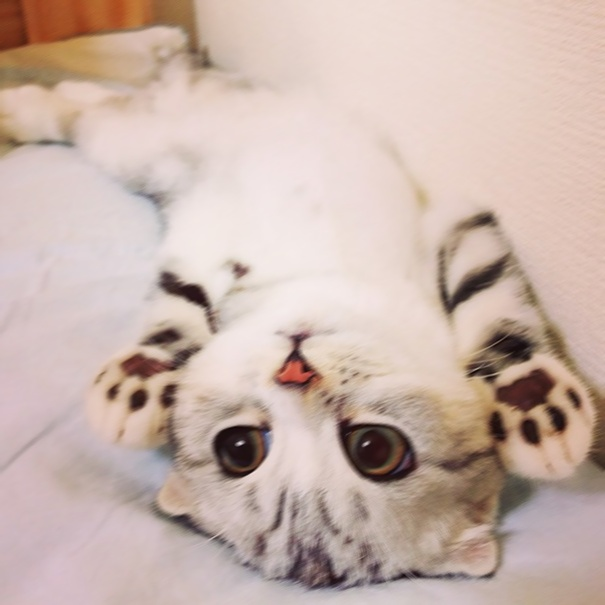
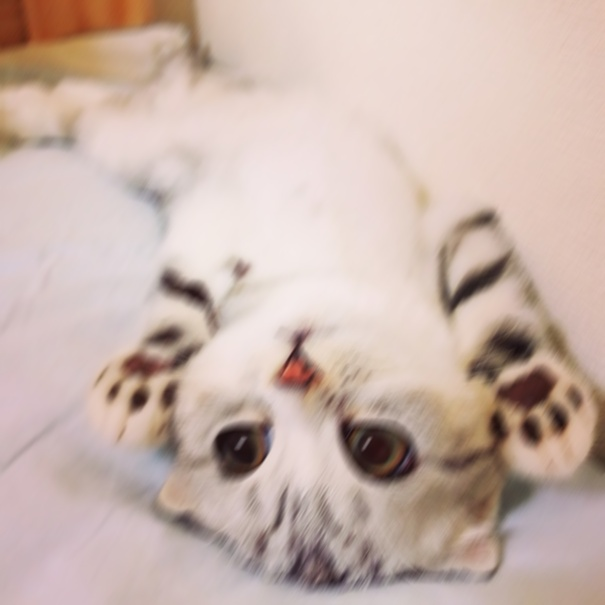
update

diff --git a/index.html b/index.html
@@ -119,7 +119,7 @@ A huge list of many types of data augmentations techniques used for deep learnin
     <li class="item_list">
         <button onclick="show('aug19')">Median Blur</button>
         <div id="aug19" style="display: none;">
-            Invert the input image by subtracting pixel values from 255.
+            Blur the input image using a median filter with a random aperture linear size.
             Source: <a target="_blank" href="https://albumentations.ai/docs/api_reference/augmentations/transforms/#albumentations.augmentations.transforms.MedianBlur">Albumentations</a><br>
             <figure>
                 <img src="images/kitty.jpg"> 
@@ -135,8 +135,8 @@ A huge list of many types of data augmentations techniques used for deep learnin
     <li class="item_list">
         <button onclick="show('aug20')">Motion Blur</button>
         <div id="aug20" style="display: none;">
-            Apply motion blur to the input image using a random-sized kernel.
-            Source: <a target="_blank" href="https://albumentations.ai/docs/api_reference/augmentations/transforms/#albumentations.augmentations.transforms.MotionBlur">Albumentations</a><br>
+            Blur images in a way that fakes camera or object movements.
+            Source: <a target="_blank" href="https://imgaug.readthedocs.io/en/latest/source/overview/blur.html#motionblur">Imgaug</a><br>
             <figure>
                 <img src="images/kitty.jpg"> 
                 <figcaption>Original</figcaption>
@@ -159,6 +159,38 @@ A huge list of many types of data augmentations techniques used for deep learnin
             </figure>
             <figure>
                 <img src="images/kitty_average_blur.jpg">
+                <figcaption>Augmentation</figcaption>
+            </figure>  
+        </div>
+    </li>
+    <!----------------------------------------------------------------------------------------------------------------->
+    <li class="item_list">
+        <button onclick="show('aug58')">Bilateral Blur</button>
+        <div id="aug58" style="display: none;">
+            Bilateral filters blur homogenous and textured areas, while trying to preserve edges.
+            Source: <a target="_blank" href="https://imgaug.readthedocs.io/en/latest/source/overview/blur.html#bilateralblur">Imgaug</a><br>
+            <figure>
+                <img src="images/kitty.jpg"> 
+                <figcaption>Original</figcaption>
+            </figure>
+            <figure>
+                <img src="images/kitty_bilateral_blur.jpg">
+                <figcaption>Augmentation</figcaption>
+            </figure>  
+        </div>
+    </li>
+    <!----------------------------------------------------------------------------------------------------------------->
+    <li class="item_list">
+        <button onclick="show('aug59')">Mean Shift Blur</button>
+        <div id="aug59" style="display: none;">
+            Apply a pyramidic mean shift filter to each image.
+            Source: <a target="_blank" href="https://imgaug.readthedocs.io/en/latest/source/overview/blur.html#meanshiftblur">Imgaug</a><br>
+            <figure>
+                <img src="images/kitty.jpg"> 
+                <figcaption>Original</figcaption>
+            </figure>
+            <figure>
+                <img src="images/kitty_mean_shift_blur.jpg">
                 <figcaption>Augmentation</figcaption>
             </figure>  
         </div>

diff --git a/images/augmentation.py b/images/augmentation.py
@@ -58,10 +58,20 @@ if __name__ == '__main__':
         transform = MedianBlur(always_apply=True, blur_limit=(18, 25))
 
     elif augmentation == 'motion_blur':
-        transform = MotionBlur(always_apply=True)
+        transform = iaa.MotionBlur(k=15)
+        transformed_image = transform(image=image)
 
     elif augmentation == 'average_blur':
         transform = iaa.AverageBlur(k=(2, 11))
+        transformed_image = transform(image=image)
+
+    elif augmentation == 'bilateral_blur':
+        transform = iaa.BilateralBlur(d=(3, 10), sigma_color=(250), 
+                                                 sigma_space=(250))
+        transformed_image = transform(image=image)
+
+    elif augmentation == 'mean_shift_blur':
+        transform = iaa.MeanShiftBlur()
         transformed_image = transform(image=image)
 
     ####
